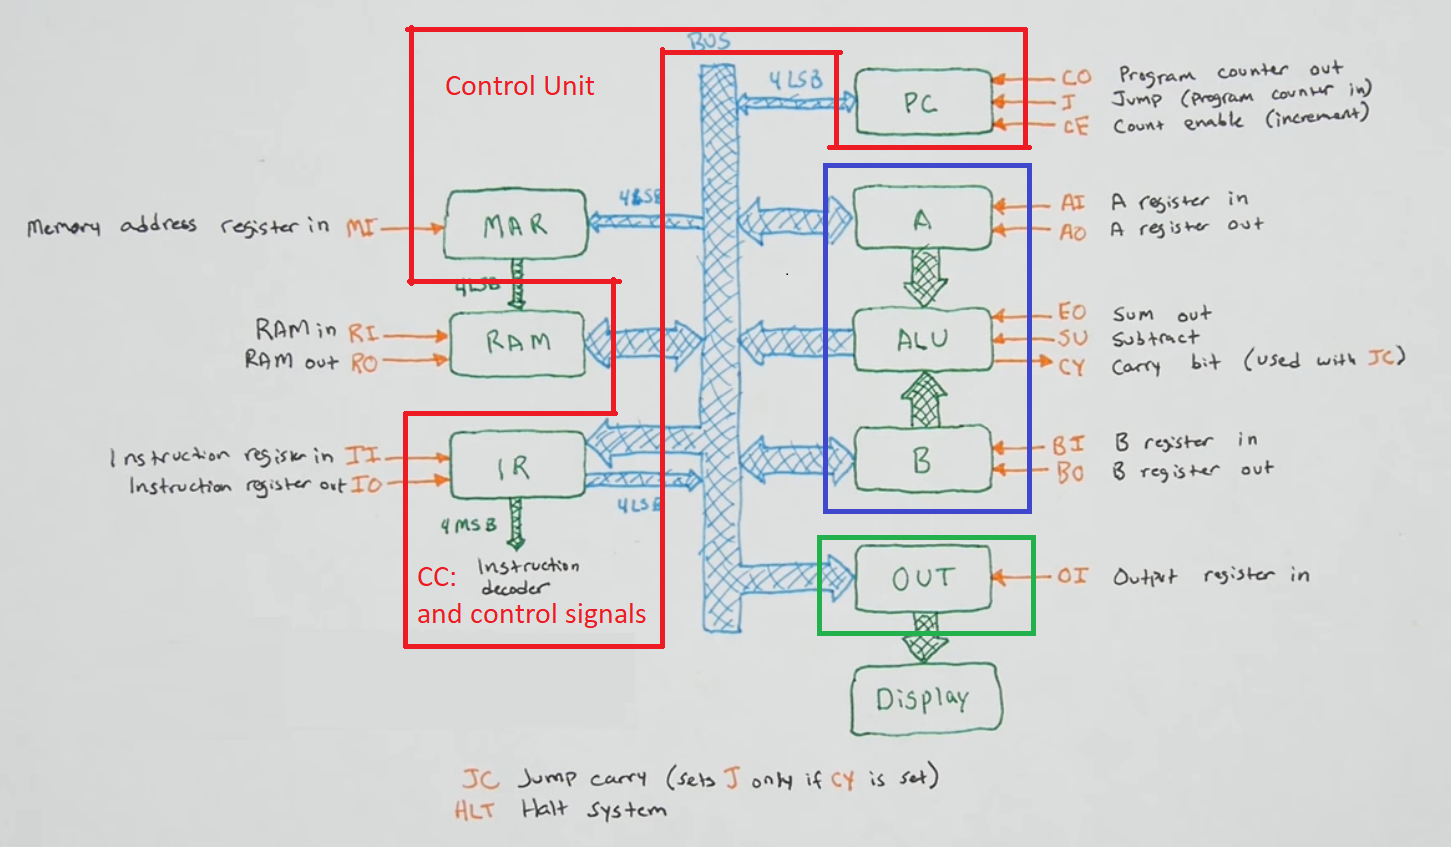
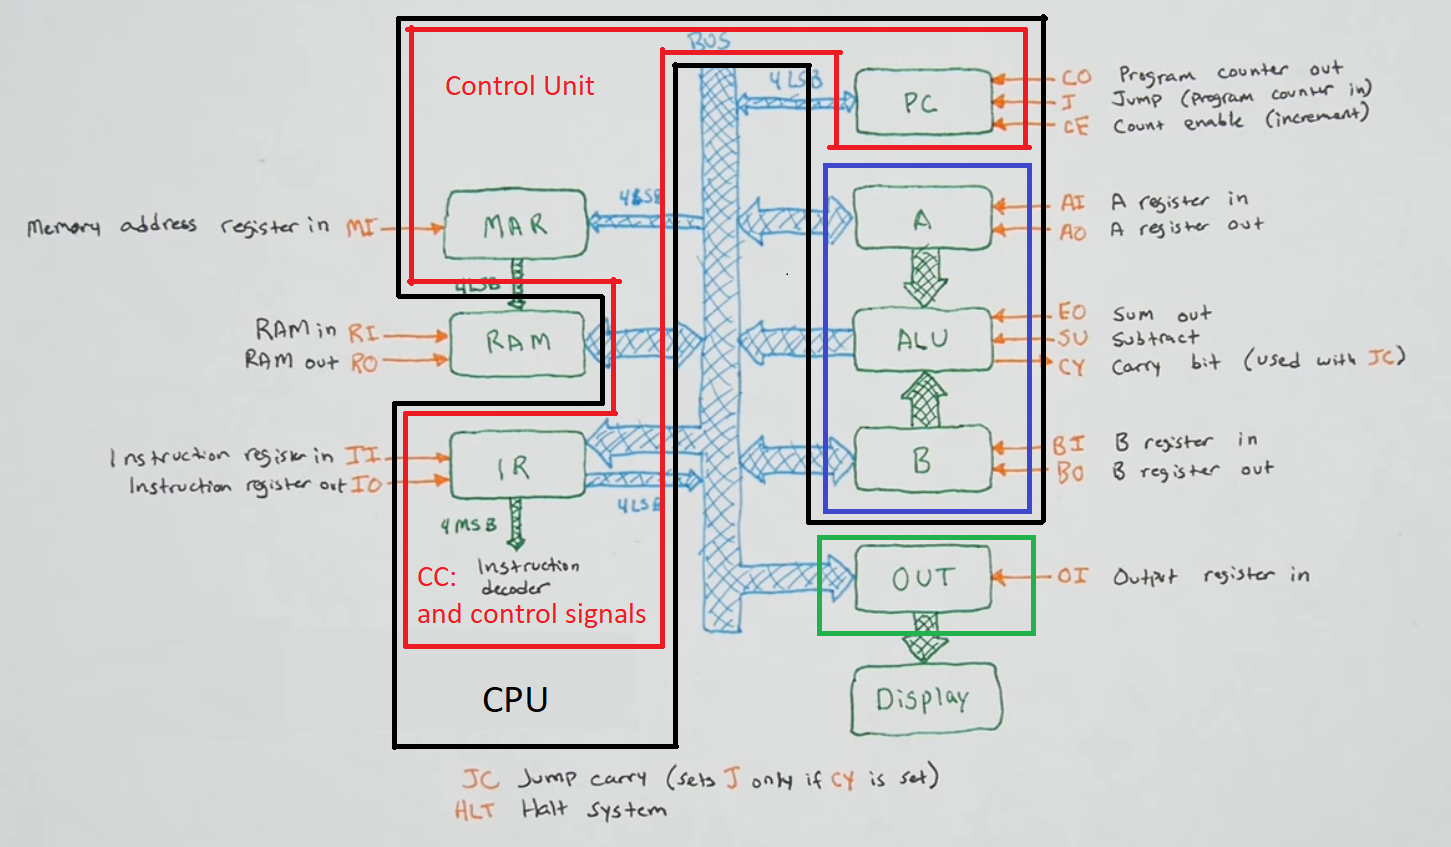
vamo carajo

diff --git a/_posts/2021-06-26-8-bit-computer.md b/_posts/2021-06-26-8-bit-computer.md
@@ -111,13 +111,21 @@ tags: project
     - [Output register](#output-register)
     - [Schematic](#schematic-8)
       - [Output module](#output-module-1)
-      - [Computer High Level overview](#computer-high-level-overview)
-  - [Instruction set architecture](#instruction-set-architecture)
-    - [Memory layout](#memory-layout)
+      - [Computer High Level overview so far](#computer-high-level-overview-so-far)
+  - [Terminology review](#terminology-review)
+    - [Instruction set architecture](#instruction-set-architecture)
+    - [Memory layout of a stored-program digital computer](#memory-layout-of-a-stored-program-digital-computer)
     - [CPU vs Control unit](#cpu-vs-control-unit)
-      - [Cleaning up control circuitry](#cleaning-up-control-circuitry)
-    - [Defining our own instruction set (machine language)](#defining-our-own-instruction-set-machine-language)
-    - [Microcode EEPROM (instruction decoder)](#microcode-eeprom-instruction-decoder)
+  - [Control unit](#control-unit)
+    - [Cleaning up control circuitry](#cleaning-up-control-circuitry)
+    - [Defining our own assembly language](#defining-our-own-assembly-language)
+      - [Example](#example)
+      - [Instruction format](#instruction-format)
+      - [Instruction set](#instruction-set)
+    - [Control logic](#control-logic)
+      - [Building the control logic counter](#building-the-control-logic-counter)
+      - [Building the fetch cycle](#building-the-fetch-cycle)
+      - [Building the instruction decoder](#building-the-instruction-decoder)
   - [Programs](#programs)
     - [Fibonacci](#fibonacci)
     - [Hello world hack](#hello-world-hack)
@@ -1543,6 +1551,8 @@ Steps:
 * Ben is using a 74LS76 as the dual JK flip-flop but the kit comes with the 74LS107, which is functionally the same, **but has a different pinout**:
 ![404]({{ site.url }}/images/8bit/output/74LS107.PNG)
 (74LS107 pinout)
+* We can cover the output LEDs with a transparent red plastic to improve its readability
+![404]({{ site.url }}/images/8bit/output/red.jpg)
 
 ### Output register
 * It doesn't need to drive the BUS, it only needs to read from the BUS, therefore the tri-state buffer gate wont be needed
@@ -1566,15 +1576,16 @@ Steps:
 ### Schematic
 #### Output module
 ![404]({{ site.url }}/images/8bit/output/schematic.PNG)
-#### Computer High Level overview
+#### Computer High Level overview so far
 ![404]({{ site.url }}/images/8bit/control/schematic1.PNG)
 
-## Instruction set architecture
+## Terminology review
+### Instruction set architecture
 * *"An instruction set architecture (ISA) is an abstract model of a computer that serves as the interface between software and hardware"*
   * Basically it's a set of definitions and graphs that help the user understand the hardware behind the software features provided
 * The ISA provides:
   * supported data types (in our case only 8 bit integers)
-  * memory layout (we have von Neumann)
+  * memory layout
   * addressing modes (we have 16 "byte addressable" addresses)
   * instruction set (implicit meaning of all the bits that we program at each byte of the RAM)
     * This is arbitrary and we will create our own instruction set language (which we will refer to as machine language)
@@ -1584,8 +1595,8 @@ Steps:
   * input/output model (ours doesn't have "interrupts" besides input halts, which are determined by the program)
 * There are various types of ISA's, such as CISC (stack based) and RISC (register based). Ours is so limited we can't really compare it to any commercial ISA, it's our own ISA.
 
-### Memory layout
-* Below a review of the von Neumann architecture that we'll use to establish some terminology
+### Memory layout of a stored-program digital computer
+* Below a review of the von Neumann architecture that we'll use to establish some terminology (especially CPU terminology) and see how our computer compares to this established framework of "stored-program digital computer"
 ![404]({{ site.url }}/images/8bit/control/vn.PNG)
 * the von Neumann architecture describes a design architecture for an electronic digital computer with these components:
   * A processing unit (CPU) that contains an arithmetic logic unit and processor registers (A, B and flag registers)
@@ -1598,16 +1609,15 @@ Steps:
       2. Make that the program loads that RAM address, empties the bus, enables RAM out, then halts
         * Now whenever you see a halted program with RAM address 1111 (all green), it means the program is waiting for your input.
       3. Then all we need is a pushbutton which upon activation the program  unhalts, and proceeds with a loaded bus with the user "live" input
-* The most characteristic property of a von Neumann architecture is that program instructions and data share the same memory and bus.
-  * In a Harvard architecture you would have one bus for the data (red LEDs) and one bus for the instructions (green LEDs), you'd be able to load the opcode into the instruction register and the data into the ALU registers at the same time.
-  * We clearly have a von Neumman computer as there's only 1 bus and we need to have different clock cycles for each of those tasks.
+      * We will skip it for now as some assembly language examples use address 15 like Ben Eater, without having it as an input address. If I eventually implement this feature I will dedicate a separate section.
+* Although these are formal definitions beyond Ben's project goal, it was a goal of mine to understand computer jargon, hence this slight theory detour.
 
 ### CPU vs Control unit
-* Looking at the [von Neumann architecture](#memory-layout) that we have, we can see at a higher level that "CPU" (central processing unit) is composed of the [ALU](#arithmetic-logic-unit-alu) (the module that does all the calculations) and the **Control Unit**, which is responsible for **fetching**, **decoding** and **executing** instructions stored in the program.
+* Looking at the [von Neumann architecture](#memory-layout-of-a-stored-program-digital-computer) that we have, we can see at a higher level that "CPU" (central processing unit) is composed of the [ALU](#arithmetic-logic-unit-alu) (the module that does all the calculations) and the **Control Unit**, which is responsible for **fetching**, **decoding** and **executing** instructions stored in the program.
   * PC = [program counter](#program-counter-pc)
   * IR = [instruction register](#instruction-register)
-  * CC = [control circuitry](#cleaning-up-control-circuitry) (called "control world" by Ben)
-* Taking von Neumann terminology into account, this is the what the architecture and terminology of our 8 bit computer looks like:
+  * CC = [control circuitry](#cleaning-up-control-circuitry) (partially called "control world" by Ben)
+* Taking von Neumann terminology into account, this is what the architecture and terminology of our 8 bit computer looks like:
 ![404]({{ site.url }}/images/8bit/control/arch.PNG)
   * "CPU" would consist of the red and blue bordered areas, with the read one being the control unit and the blue one the ALU.
   * The RAM is the memory that contains the program and variables, but as described in the [memory layout](#memory-layout) section, we could define address 1111 and a halt/unhalt mechanism to integrate "live" user inputs by explicitly storing them in the last RAM address.
@@ -1616,7 +1626,8 @@ Steps:
   * Invent a machine language/instruction set
   * Implement instruction decoders and their integration with the program counter and instruction register.
 
-#### Cleaning up control circuitry
+## Control unit
+### Cleaning up control circuitry
 * Before we start integrating the control unit, we will first "fix" the active low signals into active high to keep things consistent which then make it easier to integrate and debug.
 * Replace all jumperwires with long cables that we will connect to a "hub" of control signals, which are part of the "control circuitry" in [CSE1400](localhost:3000/downloads/CSE1400_(history-logic_circuits-data_representation-isa-assembly-cpu-io-memory-pipelining).pdf#page=32) or ("control world" by Ben) together with the instruction decoder (called EEPROM microcode by Ben) to which all these signals connect.
 * We will also connect these signals to LED and resistors (that connects to ground) in series to be able to see their state (high or low) and eventually connect them (before the anode) to the output pins of the "Microcode EEPROMs", which act basically as instruction register opcode decoders, and control whether a signal is high or low.
@@ -1626,15 +1637,116 @@ Steps:
 
 ![404]({{ site.url }}/images/8bit/control/clean.PNG)
 
-### Defining our own instruction set (machine language)
+### Defining our own assembly language
+#### Example
+* Recall that machine language/instruction set is the binary code that we will input in the RAM and that assembly language is the human readable version.
+* Let's come up with an example of a 3 word command pseudocode for our "machine language" and define how we would execute it:
 
+```
+  0. LDA 14
+  1. ADD 15
+  2. OUT
+```
 
+* All of our programs implicitly start at RAM address 0, and since our instruction length matches the byte addressable memory locations, each line of code number literally represents the RAM address in which we will store that "line of code" or rather **instruction**.
+* This means that first we load the contents of memory address 14 into register A
+* Then we load the contents at address 15 into register B
+* Then we load the contents of the ALU into the output register
 
-### Microcode EEPROM (instruction decoder)
-* Takes the opcode as the address input for the 4 least siginficant address pins
-* Appends \\(t_n\\) to the most significant address bits
-* Outputs the value for all control signals at a specific \\(t_n\\)
+#### Instruction format
+![404]({{ site.url }}/images/8bit/control/layout.PNG)
+* All of our instructions would have the following layout in memory: `[4-bit instruction (known to humans as opcode)] (4-bit operand)` with [] defining mandatory and () defining optional.
+  * This already tells us that we have a maximum of 16 opcodes
+* The optional operand may not be used (whatever is on the 4 LSB is ignored) because the address/register is implicitly known or because it does not regard any storage, such as halting the clock.
+* This is known as one-address instructions, where the implicit register in commands such as `SUM OUT` and `STORE 10` is the so called "accumulator" (holds temporary results of the ALU), which in our case is not a seperate register but the actual contents of the two 4-bit adders that make up our ALU, and the operand generally stands for a register, constant or memory address.
+* All of our **operands will regard a memory address**
 
+#### Instruction set
+* The table below shows the complete list 4-bit binary instructions and human readable opcodes
+
+binary instruction | assembly opcode | has operand | meaning
+---|---|---
+`0001`|LDA|yes| Load contents of operand address into register A
+`0010`|ADD|yes| Load contents of operand address into register B, and set ALU to sum (default), then store them into register A
+`1110`|OUT|yes| Load contents of register A into output register
+
+### Control logic
+* In order to execute an instruction such as `00011111` (LDA 15), which stands for *"Load contents of operand address into register A"*, we have to to trigger certain signals high (the rest are implicitly low) to ensure we move the data that we want in the correct places without corrupting it.
+* Steps to run any instruction (`00011111` as an example):
+  1. Fetch cycle: We fetch the instruction from memory and put it in the instruction register.
+     1. Go to next instruction (pointed by the program counter): Program counter out -> Memory address register in
+     2. Send opcode to instruction decoder: RAM out -> Instruction register in
+     3. Increment program counter already for next instruction: Counter Enable
+       * Although it has a seperate logical purpose, we will include Counter Enable into the previous clock cycle as it does not interfere with the BUS, so we save up 1 micro clock cycle.
+  2. [Decode instruction](#microcode-eeprom-instruction-decoder): Here the instruction decoder will know that `00011111` means take the contents of memory address `1111` and put it on register A
+  3. Execute instruction `00011111`:
+     1. Instruction register out (this outputs the lower significant bits that contain the address of the operand) -> Memory address register in
+     2. Ram out -> Register A in
+* In practice the decode will be done by using an EEPROM (we can replace combinatorial logic with a EEPROM) and the execution takes multiple clock cycles. In this case we saw that it took 2 clock cycles for the execution.
+* In practice the execution is not necessarily a different process from decoding, they go hand in hand and as at each clock cycle the EEPROM will decode a different set of control signals that get executed within the same rising edge of the clock.
+* Splitting one instruction/opcode into different clock cycles results in multiple "**micro instructions**" that take 1 clock pulse each.
+
+#### Building the control logic counter
+* we need to be able to know in which micro instruction number we are and start from 0 again when we're done executing all the microinstructions
+* We build a separate program counter but for micro instructions.
+  * This one is much simpler than the program counter as micro instructions do not have jumps
+  * Every micro instruction takes 1 clock cycle so there's no need to have a counter enable signal (it's always on)
+  * When we're done we can just reset the clock to 0. (which immedeately starts the next fetch cycle)
+* The values of this separate counter indicate the micro instruction number that is being executed, and we call those numbers T0, T1...
+  * we're just gonna use the lower 3 bits out of the 4 that the 74LS161 4-bit binary counter has)
+  * As a matter of fact, we're just gonna have a total of 5 micro instruction clock cycles and all microinstructions will have the same length (we just padd the remaining cycles with no operation at all). We will reset the micro clock after the 5th cycle, this is easier to implement than to have an extra control signal that resets the micro clock.
+
+* Implementation:
+  1. Insert the [74LS161](#74ls161) 4-bit binary counter
+     * Connect power and ground
+     * Tie clear (for now) and load high, as well as 7 and 10 (enable)
+     * Connect the global computer clock signal to the clock pin after offsetting it
+  2. Offset the control logic counter:
+     * We need some buffer time to prepare the control signals before the next clock cycle comes in. If we just use the same clock pulse as the global computer, the control signals may or may not be updated for the clock pulses that we need.
+     * By using an inverted global clock signal for the micro instructions clock we then can prepare the control signals while the global clock is low (as ours will be high). *Eventually the micro instruction clock gets incremented at the falling edge of the global clock.*
+     * We already inverted the global clock twice for the RAM RC circuit. Just use the first inversion also for the micro instruction clock.
+  3. Use the 74LS138, which is a 3-8 line decoder, because we want to convert the 3 bit input of the micro clock into 8 separate signals, of which we will use just 6 (5 to light up LEDs that help us debug), and the 6th bit (bit Q5 if we start counting at Q0) will be used to reset the micro clock (since T5, T6 and T7 will never be used) (recall that the decoder has all H except 1 L)
+      * so basically we have 8 T's for each opcode for which we can program a microcode instruction (a set of high and low control signals)!
+   ![404]({{ site.url }}/images/8bit/control/74LS138.PNG)  
+      * Hookup ground and power
+      * \\(E_1\\) and \\(E_2\\) are active low while \\(E_3\\) is active high, connect the first 2 to ground and the third one to \\(V_{cc}\\)
+      * Hookup the inputs to the micro code clock outputs (both chips are big endian (LSB pins start on the left))
+      * Connect clear of the micro clock to the 7th output bit (Q6) of the decoder 
+
+#### Building the fetch cycle
+* The first 3 micro instructions that constitute the fetch cycle are the same for all opcodes.
+* Altough we don't need to know the instruction register opcode, it's easier to implement the fetch cycle micro instructions decoder together with the instruction decoder EEPROMs.
+
+#### Building the instruction decoder
+* In order to decode a whole instruction (including the fetch cycle) we will append the micro clock cycle outputs together with the opcode and connect them to the address pins of the EEPROMs, which should return, for each T, a set of high/low control signals.
+* The lookup table below summarizes what we expect the EEPROM to output for each control signal based on the [instruction opcode](#instruction-set) (and micro-clock step value)
+
+* Use excel to html converter or something
+
+<div style="overflow-x:auto">
+ <table>
+  <tr>
+    <th>Assembly opcode</th>
+    <th>Binary opcode</th>
+    <th>Microclock Step</th>
+    <th>HLT</th>
+    <th>MI</th>
+    <th>RI</th>
+    <th>RO</th>
+    <th>IO</th>
+    <th>II</th>
+    <th>AI</th>
+    <th>AO</th>
+    <th>EO</th>
+    <th>SU</th>
+    <th>BI</th>
+    <th>OI</th>
+    <th>CE</th>
+    <th>CO</th>
+    <th>J</th>
+  </tr>
+</table> 
+</div>
 
 ## Programs
 
